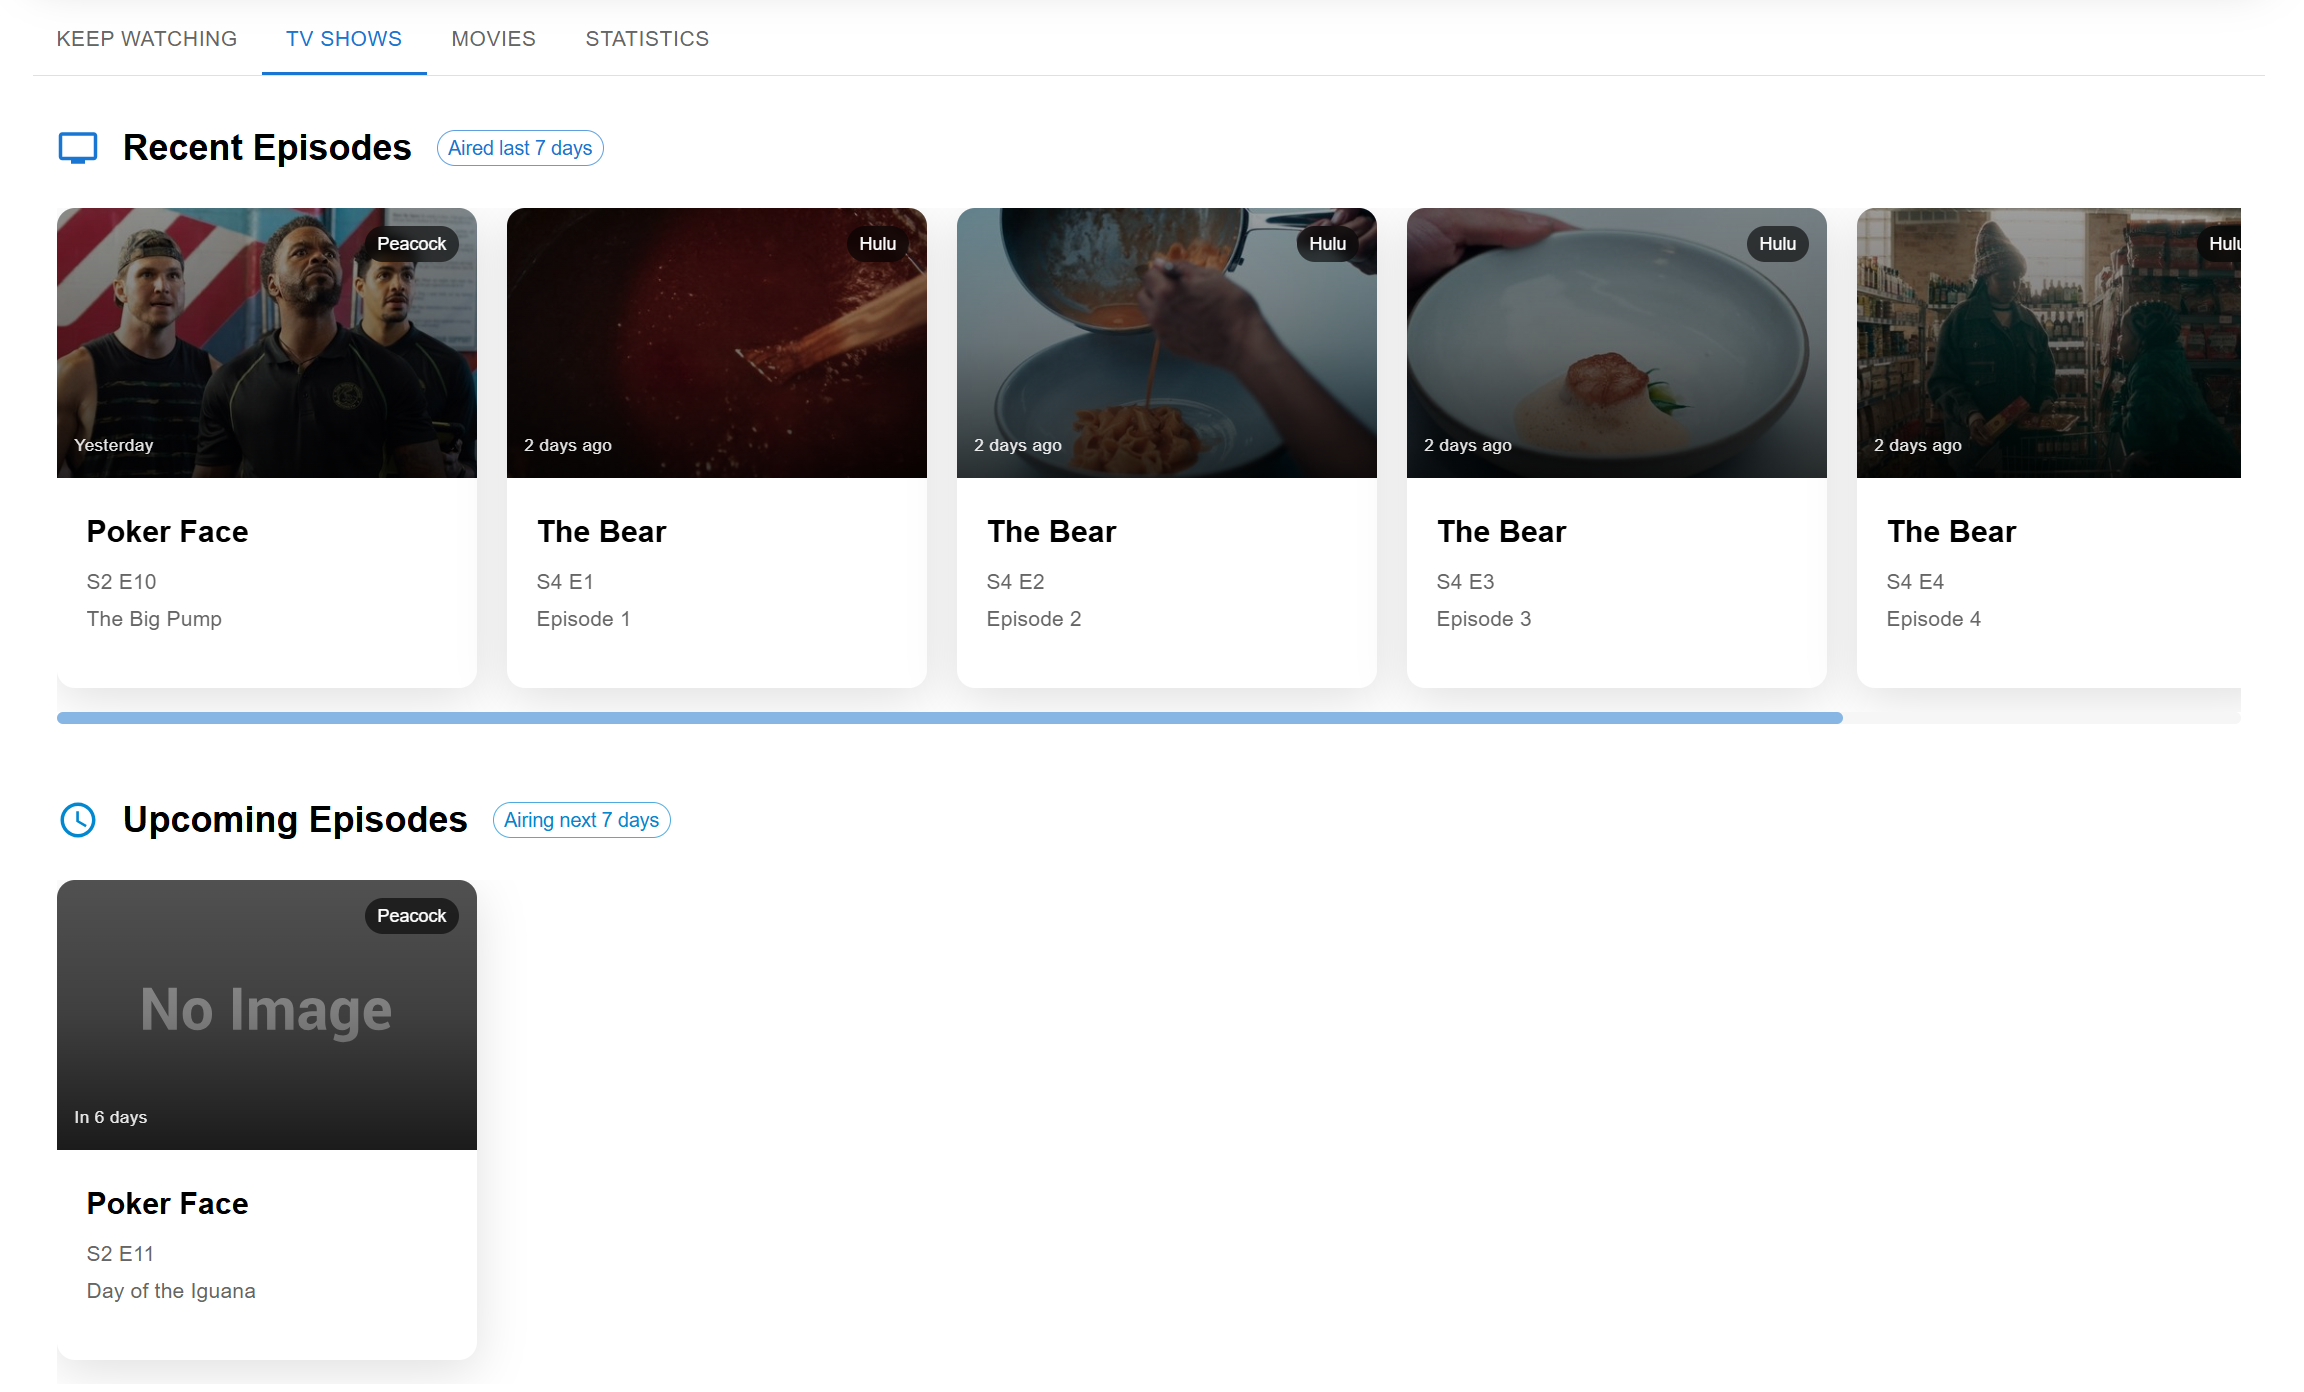
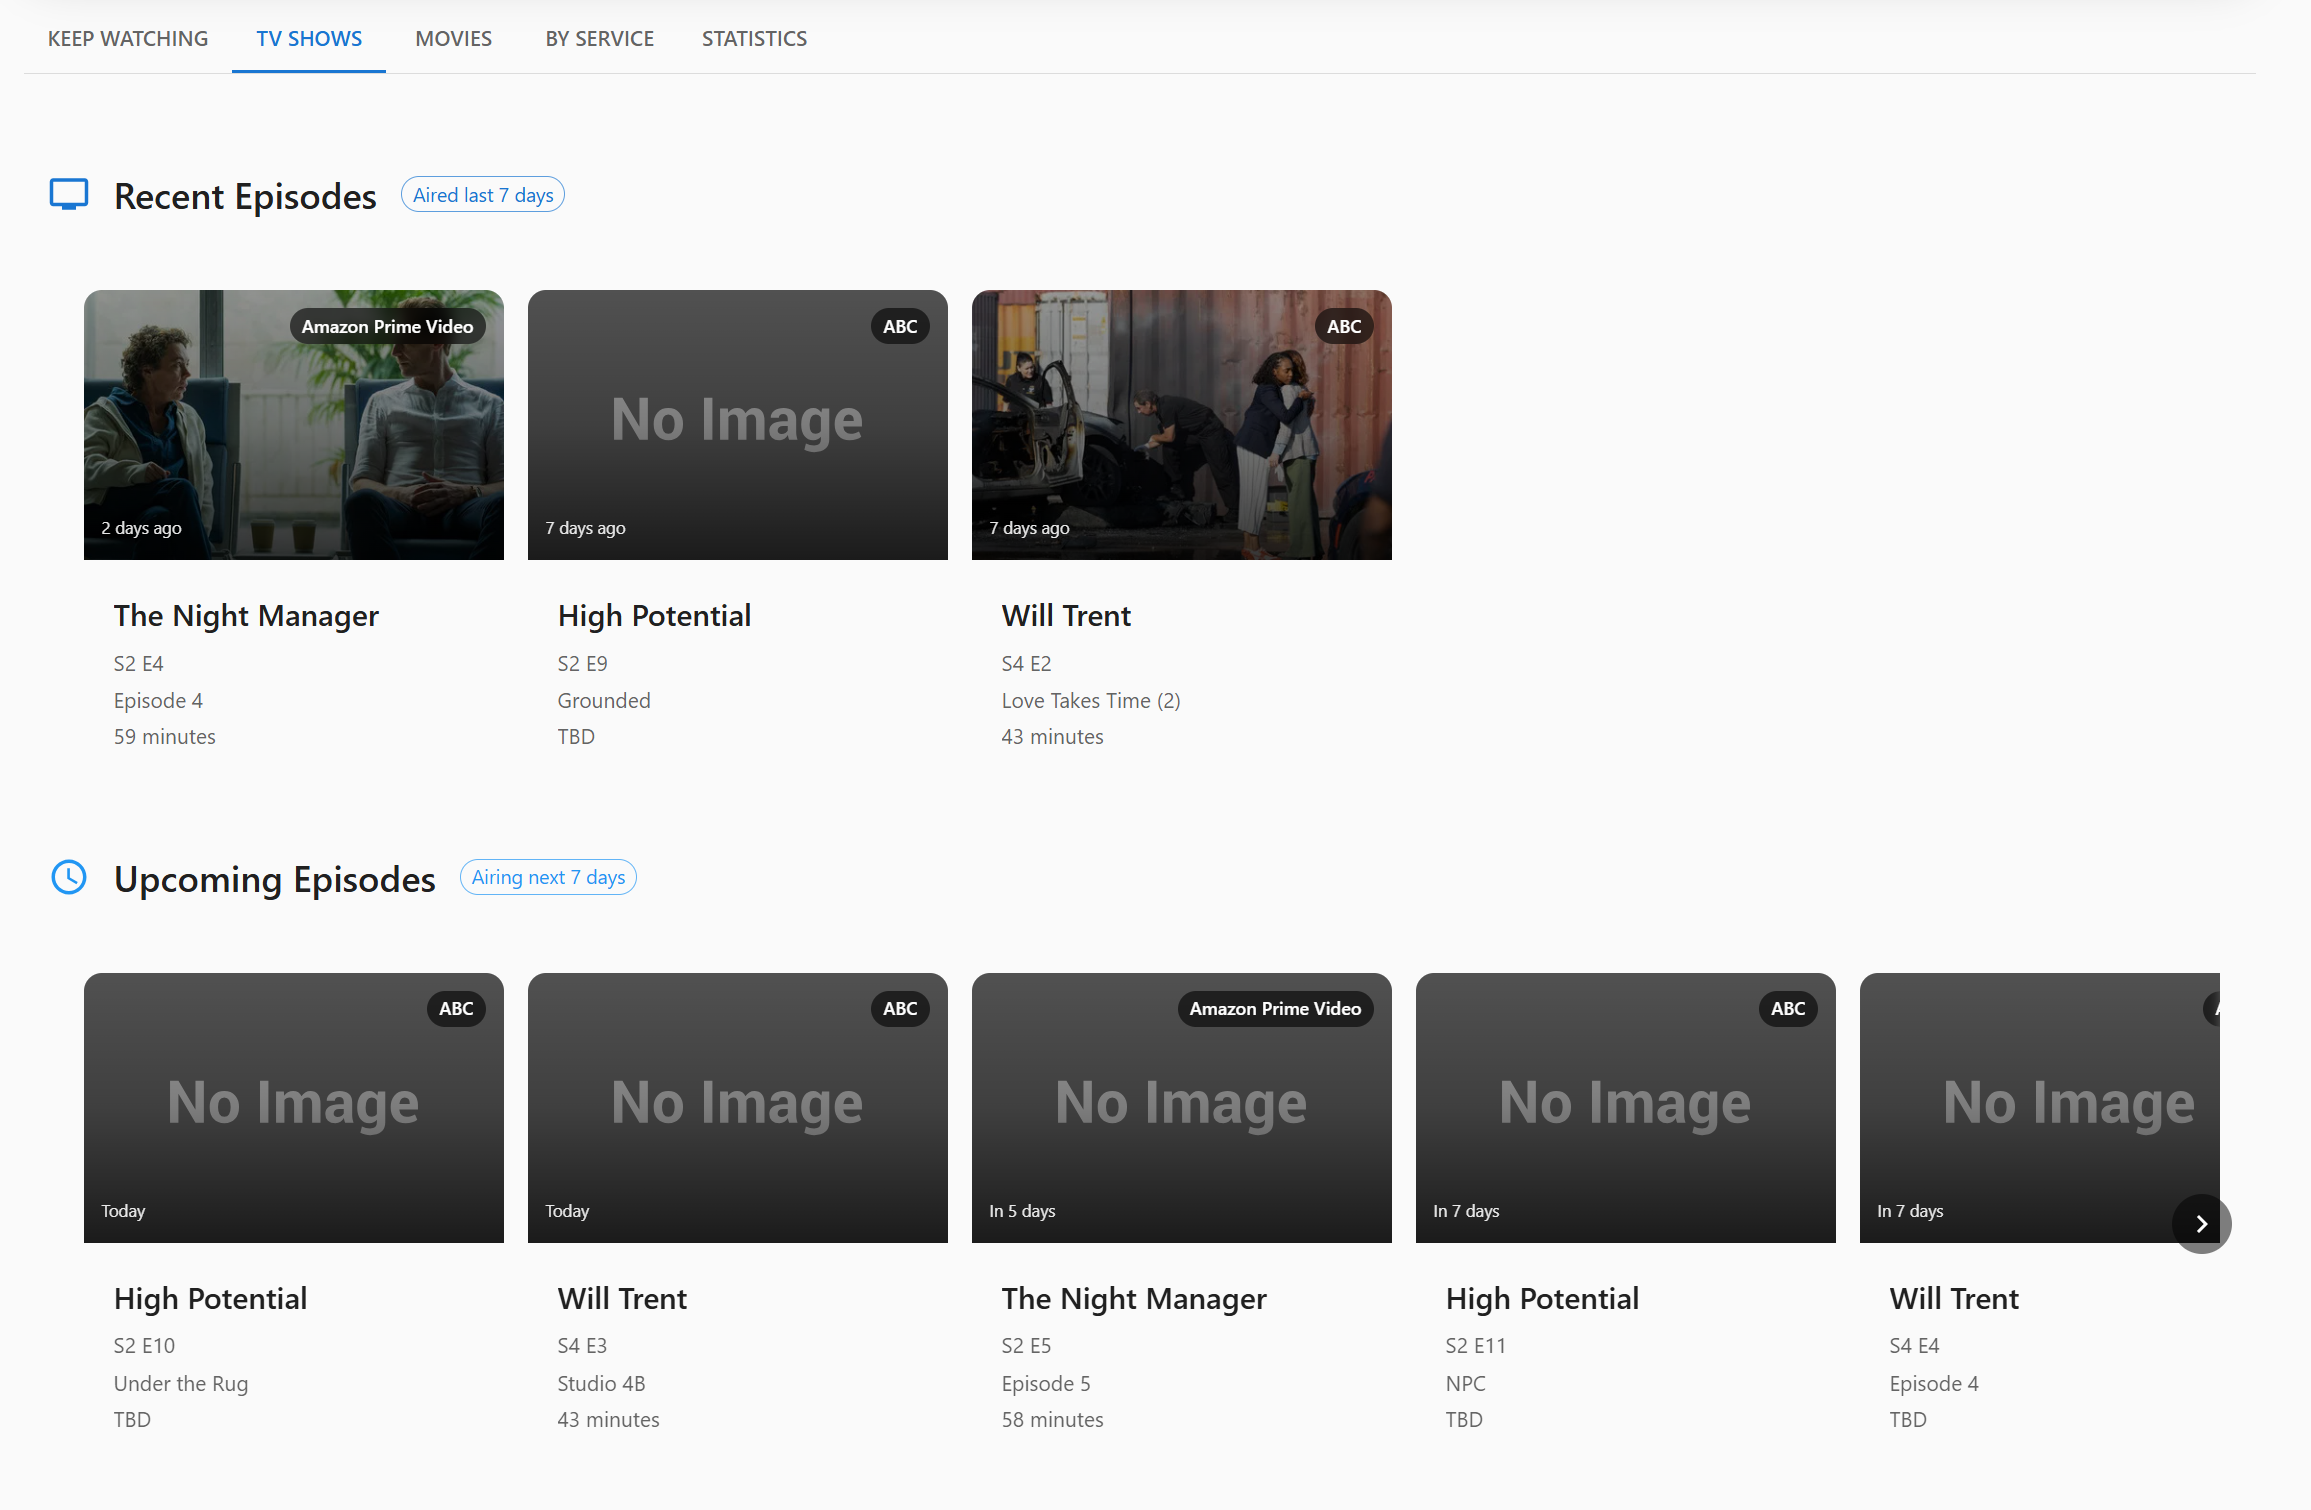
Update home related workflow screenshots

diff --git a/pages/home.md b/pages/home.md
@@ -105,6 +105,7 @@ Your movie management center includes:
 - Section headers provide quick navigation to your movies page
 
 ### 4. By Service Tab
+![Home Page By Service Tab Screenshot](../images/home/home_services.png)
 
 This tab organizes all your content by streaming platform, making it easy to browse what's available on each service:
 
@@ -156,9 +157,31 @@ A comprehensive analytics dashboard powered by advanced statistics and insights:
 - **Content Counts**: Total shows, movies, and episodes in your profile
 - **Watch Status Distribution**: Charts showing the breakdown of your content by watch status
 
+#### Traditional Analytics:
+
+##### Watch Status Charts
+- Visual representation of your content by status (Watched, Watching, Not Watched, Up to Date)
+- Separate tracking for shows and movies
+- Helps identify your viewing patterns
+
+##### Genre Distribution
+- Pie chart showing your top genres by content count
+- Discover your favorite types of entertainment
+- Based on all shows and movies in your profile
+
+##### Streaming Services
+- Bar chart of content by streaming platform
+- See which services provide most of your content
+- Useful for subscription management decisions
+
+##### Active Shows Progress
+- Detailed progress bars for shows you're actively watching
+- See completion percentage for each show
+- Track how close you are to finishing series
+
 #### Enhanced Analytics:
 
-This tab now features an advanced statistics dashboard with multiple categories of insights:
+This tab also features a set of enhanced statistics with multiple categories of insights:
 
 ##### Viewing Velocity
 - Track your watching pace over the last 30 days
@@ -214,32 +237,6 @@ This tab now features an advanced statistics dashboard with multiple categories 
 - Upcoming episodes and movies
 - Future content in your watchlist
 - Release date tracking
-
-#### Traditional Analytics (Still Available):
-
-##### Watch Status Charts
-![Home Page Watch Status Chart Screenshot](../images/home/home_stats_watch_status.png)
-- Visual representation of your content by status (Watched, Watching, Not Watched, Up to Date)
-- Separate tracking for shows and movies
-- Helps identify your viewing patterns
-
-##### Genre Distribution
-![Home Page Genres Chart Screenshot](../images/home/home_stats_genres.png)
-- Pie chart showing your top genres by content count
-- Discover your favorite types of entertainment
-- Based on all shows and movies in your profile
-
-##### Streaming Services
-![Home Page Streaming Services Chart Screenshot](../images/home/home_stats_services.png)
-- Bar chart of content by streaming platform
-- See which services provide most of your content
-- Useful for subscription management decisions
-
-##### Active Shows Progress
-![Home Page Show Progress Screenshot](../images/home/home_stats_show_progress.png)
-- Detailed progress bars for shows you're actively watching
-- See completion percentage for each show
-- Track how close you are to finishing series
 
 #### Loading Behavior:
 - Base statistics load first for quick initial view
